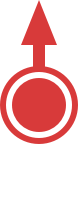
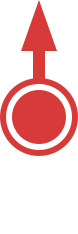
Added support for directional pins, images, rich text and GeoJSON uploads (#94).

diff --git a/static-src/components/LeafletMap/leaflet.js b/static-src/components/LeafletMap/leaflet.js
@@ -90,28 +90,48 @@ export const createGeoJsonLayer = ({
       iconElement.style.transform = `rotate(${point.properties[directionKey]}deg)`;
     }
 
-    let markdownContent = (textKey && point.properties[textKey]) || '';
+    const marker = new Marker(latLng, {
+      icon: new DivIcon({
+        className: 'vector-point-pin-container',
+        iconSize: [28, 28],
+        html: iconElement,
+      }),
+    });
+
+    let hasImages = false;
+    let markdownPopupContent = (textKey && point.properties[textKey]) || '';
     const imagesProperty = imagesKey && point.properties[imagesKey];
     if (imagesProperty) {
       imagesProperty.split(/\s*,\s*/)
         .filter((s) => s)
         .forEach((imageUrl) => {
           if (imageUrl) {
-            markdownContent = `![](${imageUrl})\n${markdownContent}`;
+            markdownPopupContent = `![](${imageUrl})\n${markdownPopupContent}`;
+            hasImages = true;
           }
         });
     }
 
-    return new Marker(latLng, {
-      icon: new DivIcon({
-        className: 'vector-point-pin-container',
-        iconSize: [28, 28],
-        html: iconElement,
-      }),
-    })
-      .on('popupopen', () => iconElement.classList.add('vector-point-pin-selected'))
-      .on('popupclose', () => iconElement.classList.remove('vector-point-pin-selected'))
-      .bindPopup(marked(markdownContent));
+    if (markdownPopupContent) {
+      const popupContent = `
+        <div class="vector-point-popup-content content">
+          ${marked(markdownPopupContent)}
+        </div>
+      `;
+
+      marker.bindPopup(popupContent, {
+        offset: [0, -16],
+        minWidth: hasImages ? 500 : 250,
+        maxWidth: 500,
+        autoPanPaddingTopLeft: [592, 20],
+        autoPanPaddingBottomRight: [20, 20],
+        className: 'vector-point-popup-container',
+      })
+        .on('popupopen', () => iconElement.classList.add('vector-point-pin-selected'))
+        .on('popupclose', () => iconElement.classList.remove('vector-point-pin-selected'));
+    }
+
+    return marker;
   },
 });
 

diff --git a/static-src/components/LeafletMap/index.js b/static-src/components/LeafletMap/index.js
@@ -73,18 +73,43 @@ const StyledLeafletMap = styled.div`
     width: 100%;
     height: 100%;
     background-image: url(${pinIcon});
-    background-size: cover;
+    background-repeat: no-repeat;
+    background-size: contain;
 
     &.vector-point-pin-selected {
       background-image: url(${selectedPinIcon});
     }
 
     &.vector-point-pin-directional {
+      position: relative;
+      top: -100%;
+      height: 300%;
       background-image: url(${directionalPinIcon});
 
       &.vector-point-pin-selected {
         background-image: url(${selectedDirectionalPinIcon});
       }
     }
+  }
+
+  & .vector-point-popup-container {
+    & .leaflet-popup-content-wrapper,
+    & .leaflet-popup-tip {
+      background-color: ${({ theme }) => theme.colors.panelBackground};
+      border-radius: ${({ theme }) => theme.radii.standard};
+      box-shadow: ${({ theme }) => theme.shadows.Control};
+    }
+
+    & .leaflet-popup-tip-container {
+      transform: scaleY(2) translateY(25%);
+    }
+  }
+
+  & .vector-point-popup-content {
+    max-height: 500px;
+    margin: -10px;
+    overflow-y: scroll;
+    font-family: 'Muli', sans-serif;
+    font-size: 0.8rem;
   }
 `;

diff --git a/imaginedsf-custom-theme/inc/mimes.php b/imaginedsf-custom-theme/inc/mimes.php
@@ -1,0 +1,19 @@
+<?php
+/**
+ * Adds support for additional upload MIME types.
+ *
+ * @package Imagined San Francisco Custom Theme
+ */
+
+/**
+ * Adds support for GeoJSON uploads.
+ *
+ * @param array $mimes The array of existing MIME types.
+ */
+function isf_add_geojson_upload_support( $mimes ) {
+	$mimes['geojson'] = 'text/plain';
+	$mimes['json']    = 'text/plain';
+	return $mimes;
+}
+
+add_action( 'upload_mimes', 'isf_add_geojson_upload_support' );

diff --git a/imaginedsf-custom-theme/functions.php b/imaginedsf-custom-theme/functions.php
@@ -20,6 +20,13 @@ require_once 'inc/.env.php';
 
 
 /**
+ * Adds support for GeoJSON uploads.
+ */
+
+require_once 'inc/mimes.php';
+
+
+/**
  * Updates post types.
  */
 
